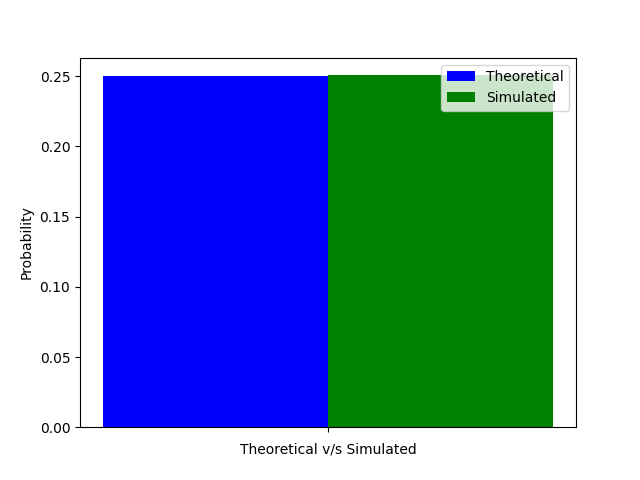
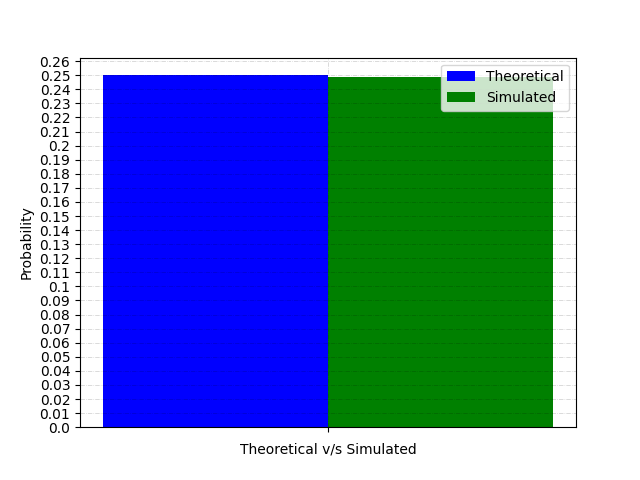
Add files via upload

diff --git a/Assignment3/codes/GATE-2007-(MA)-Q14.py b/Assignment3/codes/GATE-2007-(MA)-Q14.py
@@ -44,5 +44,11 @@ plt.bar(x + 0.2, probab_sim, color = 'g', width = 0.2, label = 'Simulated')
 plt.xlabel('Theoretical v/s Simulated')
 plt.ylabel('Probability')
 plt.xticks(x  + 0.2/2,[''])
+a = np.arange(0,0.3,0.01)
+plt.yticks(a,a)
+plt.margins(0.05)
+plt.grid(b = True, color ='black',
+        linestyle ='-.', linewidth = 0.5,
+        alpha = 0.2)
 plt.legend()
 plt.show()
